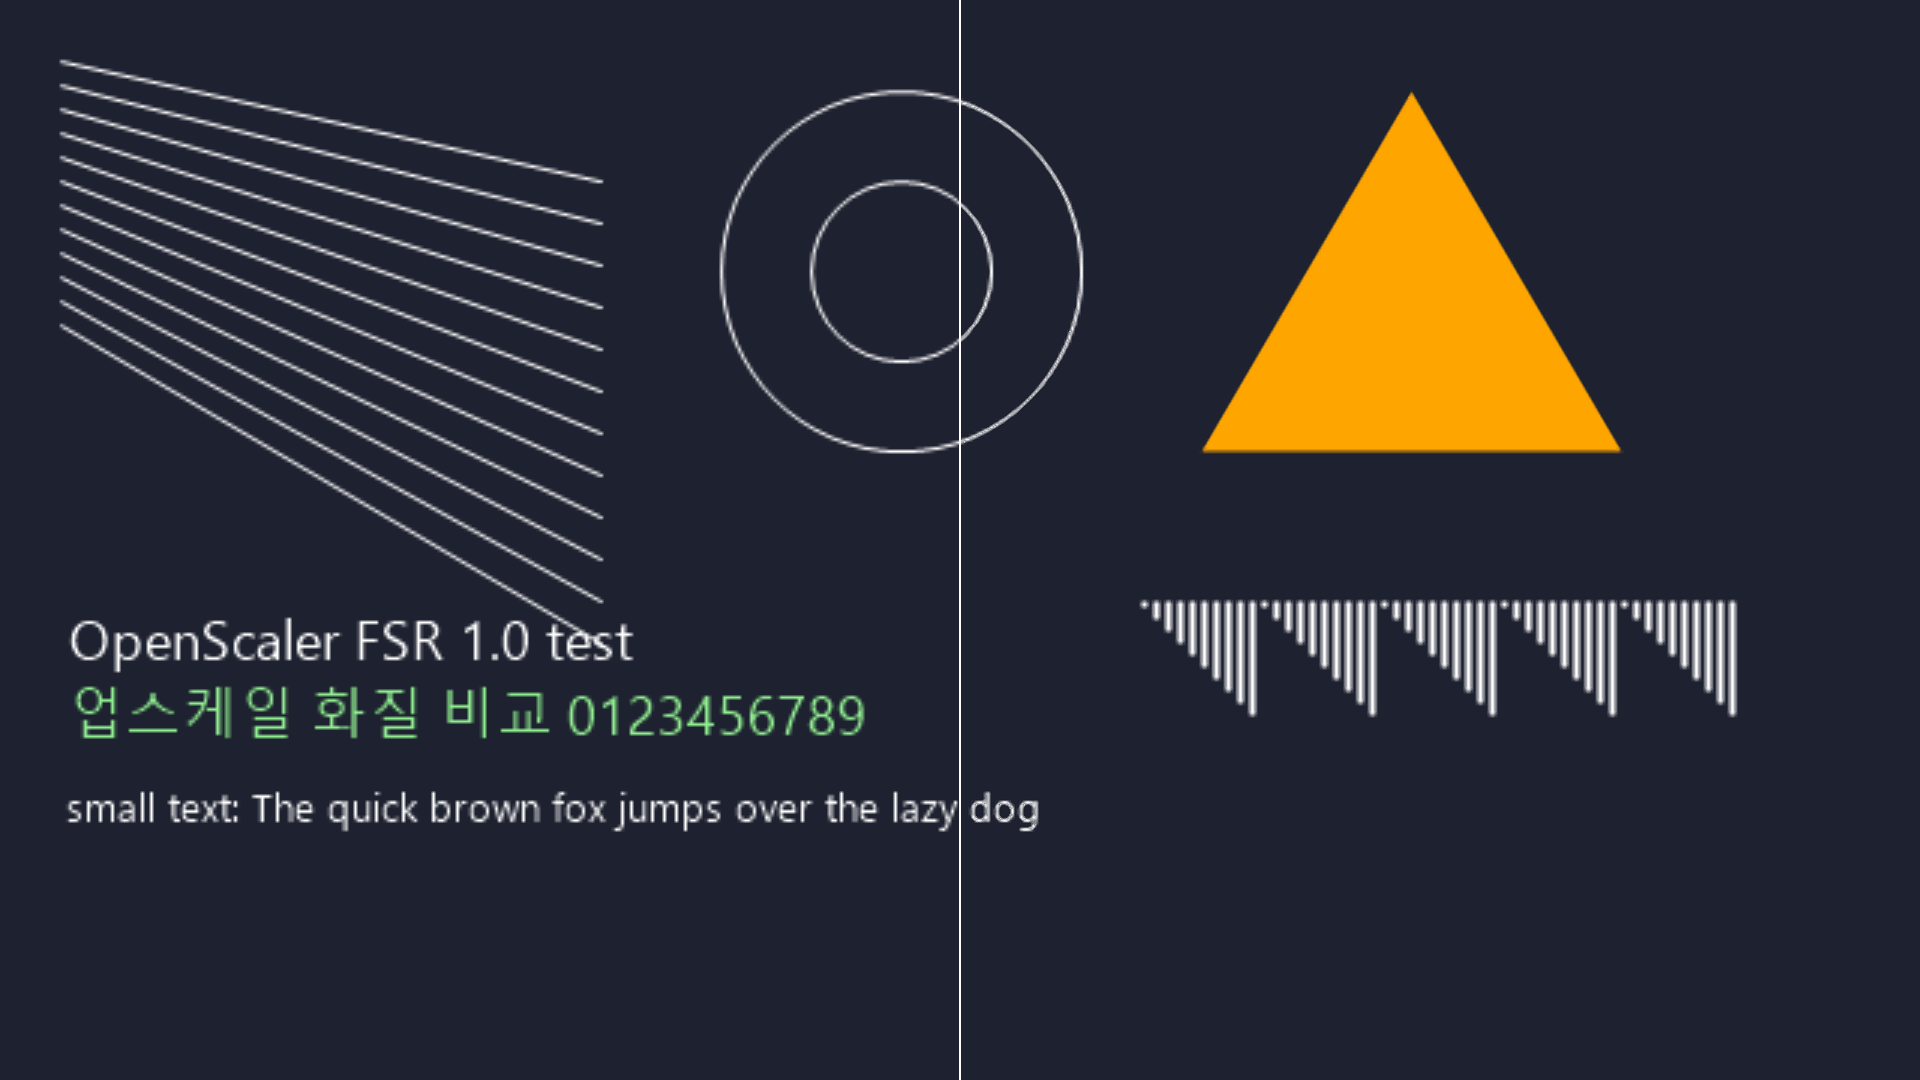
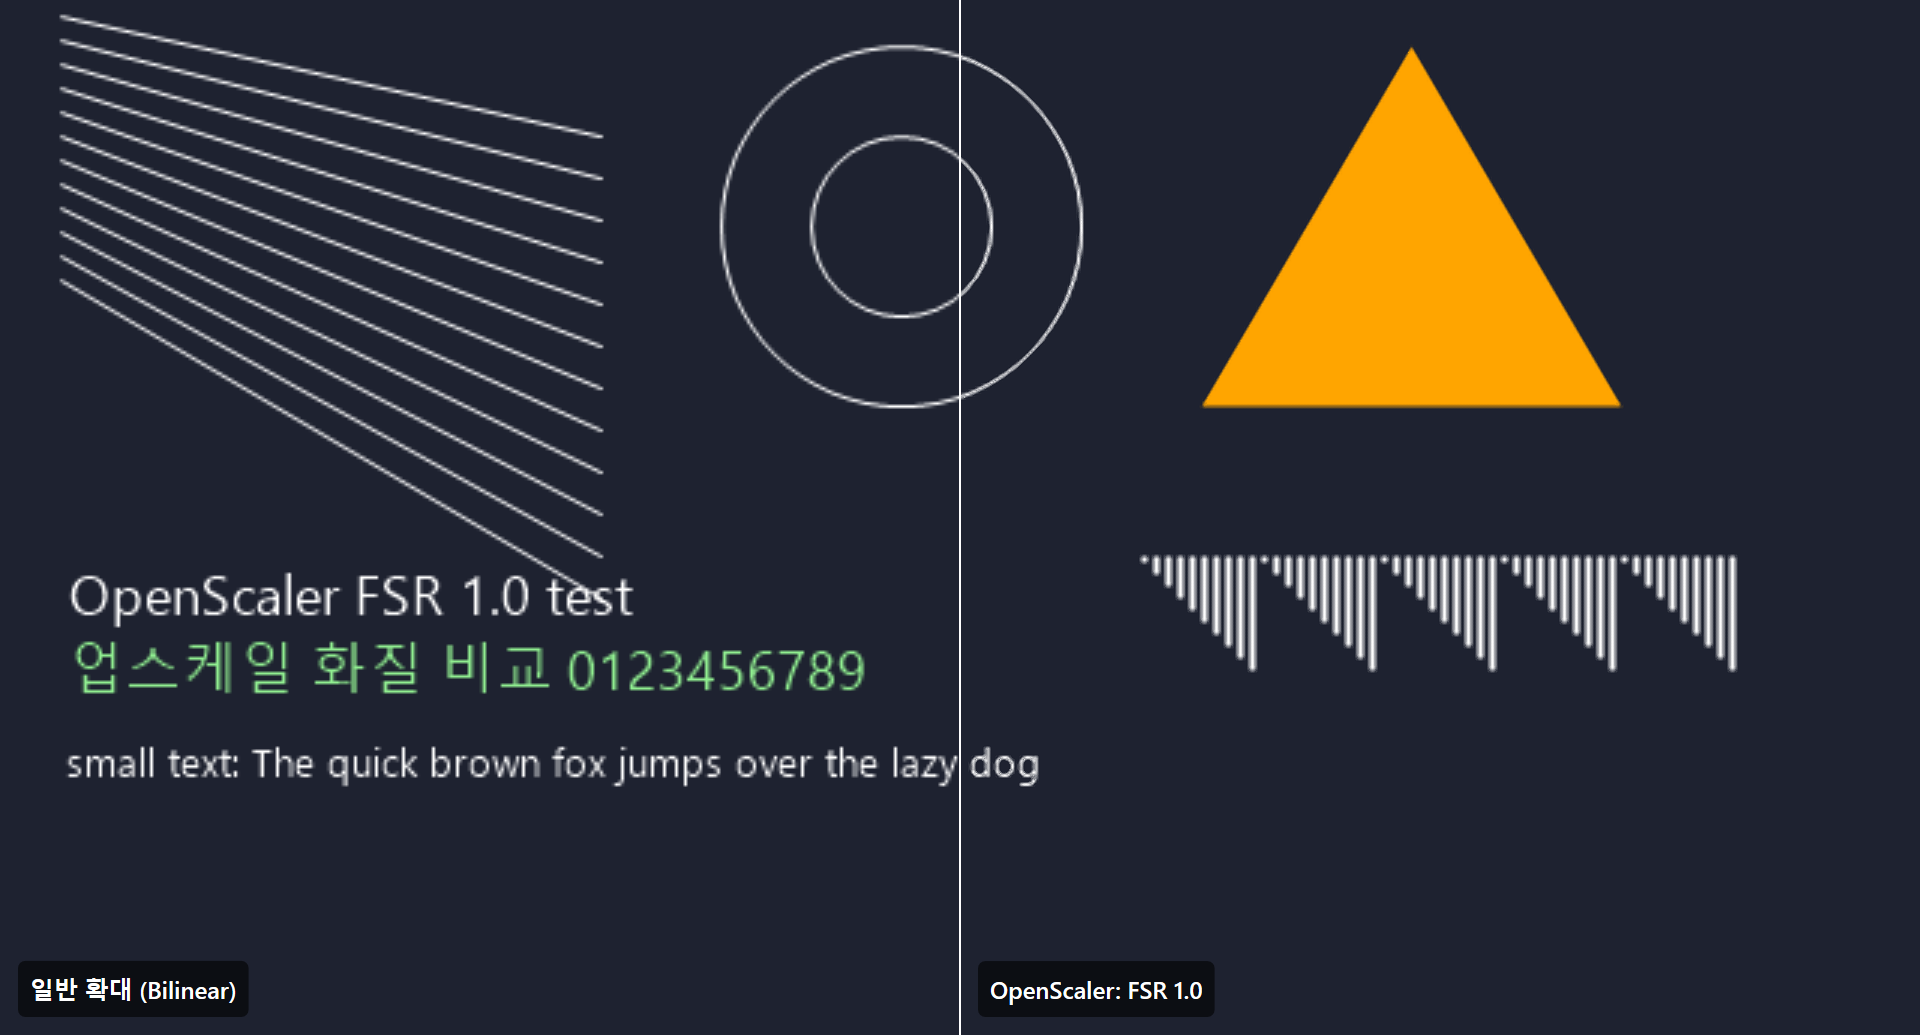
Add on-screen status display
Draw a status box with Direct2D/DirectWrite on the scaled output: mode, sharpness, integer scaling, resolution and FPS. It appears for a few seconds after starting or changing a setting, and Alt+Shift+O keeps it on. Comparison mode now labels both halves. README: feature, hotkey, plan and updated comparison screenshot.

diff --git a/src/main.cpp b/src/main.cpp
@@ -17,6 +17,8 @@
 #include <d3d11.h>
 #include <dxgi1_3.h>
 #include <d3dcompiler.h>
+#include <d2d1_1.h>
+#include <dwrite.h>
 
 #include <winrt/base.h>
 #include <winrt/Windows.Foundation.h>
@@ -55,13 +57,14 @@ using Clock = std::chrono::steady_clock;
 enum Mode { MODE_NEAREST, MODE_BILINEAR, MODE_BICUBIC, MODE_LANCZOS, MODE_FSR, MODE_COUNT };
 static const char* kModeNames[MODE_COUNT] = { "Nearest", "Bilinear", "Bicubic", "Lanczos2", "FSR 1.0" };
 
-enum HotkeyId { HK_TOGGLE = 1, HK_MODE, HK_INTEGER, HK_SHARP_UP, HK_SHARP_DOWN, HK_COMPARE, HK_QUIT };
+enum HotkeyId { HK_TOGGLE = 1, HK_MODE, HK_INTEGER, HK_SHARP_UP, HK_SHARP_DOWN, HK_COMPARE, HK_OSD, HK_QUIT };
 
 struct Settings {
     int mode = MODE_FSR;
     float sharpness = 0.5f;
     bool integerScale = false;
     bool compare = false;  // 화면 분할 비교: 왼쪽은 Bilinear(일반 확대), 오른쪽은 현재 모드
+    bool osdAlways = false; // 화면 위 상태 표시를 항상 켜 둔다 (끄면 설정을 바꿀 때만 잠깐 표시)
 };
 
 // HLSL cbuffer Params와 같은 레이아웃 (16바이트 정렬)
@@ -96,6 +99,12 @@ static com_ptr<ID3D11BlendState> g_blendAlpha;   // 일반 커서 픽셀: 알파
 static com_ptr<ID3D11BlendState> g_blendInvert;  // 흑백 커서의 반전 픽셀: 1 - 배경색
 static com_ptr<ID3D11RasterizerState> g_rsScissor;  // 비교 모드에서 화면 절반만 그릴 때 사용
 static com_ptr<ID3D11ShaderResourceView> g_whiteSrv; // 1x1 흰색 텍스처 (비교 모드 구분선)
+
+// 화면 위 상태 표시(OSD)용 Direct2D / DirectWrite
+static com_ptr<ID2D1Factory1> g_d2dFactory;
+static com_ptr<ID2D1DeviceContext> g_d2dCtx;
+static com_ptr<IDWriteFactory> g_dwFactory;
+static Clock::time_point g_osdUntil;  // 이 시각까지 상태를 표시한다
 
 static bool g_systemCursorHidden = false;
 
@@ -142,9 +151,17 @@ struct ScalingSession {
     bool cursorMapped = false;  // true: 실제 커서가 원본 창 안에 있고 확대 위치에 직접 그리는 중
     std::unordered_map<HCURSOR, CursorImage> cursors;
 
+    // 화면 위 상태 표시
+    com_ptr<ID2D1Bitmap1> d2dTarget;  // 백버퍼를 Direct2D에서 그릴 수 있게 감싼 것
+    com_ptr<IDWriteTextFormat> textFormat;
+    com_ptr<ID2D1SolidColorBrush> textBrush;
+    com_ptr<ID2D1SolidColorBrush> bgBrush;
+
     // 통계
     int capturedFrames = 0;
     int presentedFrames = 0;
+    double captureFps = 0;
+    double outputFps = 0;
     Clock::time_point statTime;
 };
 static ScalingSession* g_scaling = nullptr;
@@ -238,6 +255,15 @@ static void InitD3D()
     rd.ScissorEnable = TRUE;
     check_hresult(g_device->CreateRasterizerState(&rd, g_rsScissor.put()));
     g_whiteSrv = CreatePixelSrv({ 0xFFFFFFFF }, 1, 1);
+
+    // Direct2D를 같은 D3D 디바이스 위에 만들어 백버퍼에 글자를 그린다.
+    check_hresult(D2D1CreateFactory(D2D1_FACTORY_TYPE_SINGLE_THREADED, __uuidof(ID2D1Factory1), nullptr,
+                                    g_d2dFactory.put_void()));
+    com_ptr<ID2D1Device> d2dDevice;
+    check_hresult(g_d2dFactory->CreateDevice(dxgiDevice.get(), d2dDevice.put()));
+    check_hresult(d2dDevice->CreateDeviceContext(D2D1_DEVICE_CONTEXT_OPTIONS_NONE, g_d2dCtx.put()));
+    check_hresult(DWriteCreateFactory(DWRITE_FACTORY_TYPE_SHARED, __uuidof(IDWriteFactory),
+                                      reinterpret_cast<IUnknown**>(g_dwFactory.put())));
 }
 
 // ---------------------------------------------------------------------------
@@ -479,6 +505,7 @@ static void StopScaling()
     ShowSystemCursor(true);
     if (g_scaling->session) g_scaling->session.Close();
     if (g_scaling->framePool) g_scaling->framePool.Close();
+    g_d2dCtx->SetTarget(nullptr);
     g_ctx->ClearState();
     g_ctx->Flush();
     if (g_scaling->frameWaitable) CloseHandle(g_scaling->frameWaitable);
@@ -551,6 +578,17 @@ static void StartScaling(HWND target)
     com_ptr<ID3D11Texture2D> backBuffer;
     check_hresult(s->swapChain->GetBuffer(0, IID_PPV_ARGS(backBuffer.put())));
     check_hresult(g_device->CreateRenderTargetView(backBuffer.get(), nullptr, s->backBufferRtv.put()));
+
+    // 상태 표시: 글자 크기는 출력 높이에 비례 (1080p에서 24px)
+    D2D1_BITMAP_PROPERTIES1 bp = D2D1::BitmapProperties1(
+        D2D1_BITMAP_OPTIONS_TARGET | D2D1_BITMAP_OPTIONS_CANNOT_DRAW,
+        D2D1::PixelFormat(DXGI_FORMAT_B8G8R8A8_UNORM, D2D1_ALPHA_MODE_IGNORE));
+    check_hresult(g_d2dCtx->CreateBitmapFromDxgiSurface(backBuffer.as<IDXGISurface>().get(), &bp, s->d2dTarget.put()));
+    check_hresult(g_dwFactory->CreateTextFormat(L"Segoe UI", nullptr, DWRITE_FONT_WEIGHT_SEMI_BOLD, DWRITE_FONT_STYLE_NORMAL,
+                                                DWRITE_FONT_STRETCH_NORMAL, s->outH / 45.0f, L"ko-kr", s->textFormat.put()));
+    check_hresult(g_d2dCtx->CreateSolidColorBrush(D2D1::ColorF(1.0f, 1.0f, 1.0f, 1.0f), s->textBrush.put()));
+    check_hresult(g_d2dCtx->CreateSolidColorBrush(D2D1::ColorF(0.0f, 0.0f, 0.0f, 0.6f), s->bgBrush.put()));
+    g_osdUntil = Clock::now() + std::chrono::milliseconds(3000);
 
     s->session.StartCapture();
     s->statTime = Clock::now();
@@ -684,6 +722,56 @@ static void DrawCursor(ScalingSession* s)
     g_ctx->OMSetBlendState(nullptr, nullptr, 0xFFFFFFFF);
 }
 
+// 반투명 검은 상자 위에 글자를 그린다. alignBottom이면 y는 상자의 아래쪽 끝이다.
+static void DrawLabel(ScalingSession* s, const wchar_t* text, float x, float y, bool alignBottom)
+{
+    com_ptr<IDWriteTextLayout> layout;
+    check_hresult(g_dwFactory->CreateTextLayout(text, (UINT32)wcslen(text), s->textFormat.get(), 4000.0f, 4000.0f,
+                                                layout.put()));
+    DWRITE_TEXT_METRICS m;
+    check_hresult(layout->GetMetrics(&m));
+    float pad = s->textFormat->GetFontSize() * 0.5f;
+    float h = m.height + pad * 2;
+    if (alignBottom) y -= h;
+    D2D1_ROUNDED_RECT bg = { { x, y, x + m.width + pad * 2, y + h }, pad * 0.6f, pad * 0.6f };
+    g_d2dCtx->FillRoundedRectangle(bg, s->bgBrush.get());
+    g_d2dCtx->DrawTextLayout({ x + pad, y + pad }, layout.get(), s->textBrush.get());
+}
+
+// 설정을 바꾸면 잠깐(또는 항상) 현재 상태를 보여 주고, 비교 모드에서는 양쪽에 이름표를 붙인다.
+static void DrawOsd(ScalingSession* s)
+{
+    bool showStatus = g_settings.osdAlways || Clock::now() < g_osdUntil;
+    if (!showStatus && !g_settings.compare) return;
+
+    float left = (float)(s->dstScreen.left - s->monitor.left);
+    float top = (float)(s->dstScreen.top - s->monitor.top);
+    float right = (float)(s->dstScreen.right - s->monitor.left);
+    float bottom = (float)(s->dstScreen.bottom - s->monitor.top);
+    float margin = s->textFormat->GetFontSize() * 0.75f;
+
+    g_d2dCtx->SetTarget(s->d2dTarget.get());
+    g_d2dCtx->BeginDraw();
+
+    if (showStatus) {
+        wchar_t text[256];
+        swprintf_s(text, L"%hs  ·  샤픈 %.1f  ·  정수배 %ls\n%u×%u → %u×%u  ·  출력 %.0f fps  ·  캡처 %.0f fps",
+                   kModeNames[g_settings.mode], g_settings.sharpness, g_settings.integerScale ? L"ON" : L"OFF",
+                   s->srcW, s->srcH, s->midW, s->midH, s->outputFps, s->captureFps);
+        DrawLabel(s, text, left + margin, top + margin, false);
+    }
+
+    if (g_settings.compare) {
+        wchar_t text[64];
+        swprintf_s(text, L"OpenScaler: %hs", kModeNames[g_settings.mode]);
+        DrawLabel(s, L"일반 확대 (Bilinear)", left + margin, bottom - margin, true);
+        DrawLabel(s, text, (left + right) / 2 + margin, bottom - margin, true);
+    }
+
+    g_d2dCtx->EndDraw();
+    g_d2dCtx->SetTarget(nullptr);
+}
+
 static void RenderFrame()
 {
     auto s = g_scaling;
@@ -723,6 +811,8 @@ static void RenderFrame()
     UpdateLayout(s);
     UpdateCursor(s);
 
+    // 지난 프레임의 Direct2D 그리기가 남긴 파이프라인 상태를 지우고 시작한다.
+    g_ctx->ClearState();
     float clear[4] = { 0, 0, 0, 1 };
     g_ctx->ClearRenderTargetView(s->backBufferRtv.get(), clear);
 
@@ -782,6 +872,9 @@ static void RenderFrame()
 
         // Pass 3: 커서
         DrawCursor(s);
+
+        // Pass 4: 화면 위 상태 표시
+        DrawOsd(s);
     }
 
     // 3. 수직동기에 맞춰 출력
@@ -807,6 +900,8 @@ static void PrintStatus()
            g_scaling->cursorMapped ? "변환" : "일반",
            g_scaling->capturedFrames / sec, g_scaling->presentedFrames / sec);
     fflush(stdout);
+    g_scaling->captureFps = g_scaling->capturedFrames / sec;
+    g_scaling->outputFps = g_scaling->presentedFrames / sec;
     g_scaling->capturedFrames = 0;
     g_scaling->presentedFrames = 0;
     g_scaling->statTime = now;
@@ -828,6 +923,9 @@ static bool HandleHotkey(int id)
     case HK_COMPARE:
         g_settings.compare = !g_settings.compare;
         break;
+    case HK_OSD:
+        g_settings.osdAlways = !g_settings.osdAlways;
+        break;
     case HK_SHARP_UP:
         g_settings.sharpness = std::min(1.0f, g_settings.sharpness + 0.1f);
         break;
@@ -837,6 +935,7 @@ static bool HandleHotkey(int id)
     case HK_QUIT:
         return false;
     }
+    g_osdUntil = Clock::now() + std::chrono::milliseconds(2500);  // 바뀐 설정을 화면에 잠깐 보여 준다
     return true;
 }
 
@@ -847,7 +946,7 @@ static void RegisterHotkeys()
         { HK_TOGGLE, 'S', "Alt+Shift+S" },        { HK_MODE, 'M', "Alt+Shift+M" },
         { HK_INTEGER, 'I', "Alt+Shift+I" },       { HK_SHARP_UP, VK_UP, "Alt+Shift+Up" },
         { HK_SHARP_DOWN, VK_DOWN, "Alt+Shift+Down" }, { HK_COMPARE, 'C', "Alt+Shift+C" },
-        { HK_QUIT, 'Q', "Alt+Shift+Q" },
+        { HK_OSD, 'O', "Alt+Shift+O" },           { HK_QUIT, 'Q', "Alt+Shift+Q" },
     };
     for (auto& k : keys) {
         if (!RegisterHotKey(nullptr, k.id, mods, k.vk))
@@ -885,6 +984,7 @@ static void PrintHelp()
            "  Alt+Shift+M     업스케일 모드 변경 (Nearest/Bilinear/Bicubic/Lanczos2/FSR 1.0)\n"
            "  Alt+Shift+I     정수배 스케일링 켜기/끄기\n"
            "  Alt+Shift+C     비교 모드 (왼쪽: 일반 확대, 오른쪽: 현재 모드)\n"
+           "  Alt+Shift+O     화면 위 상태 표시 항상 켜기/끄기\n"
            "  Alt+Shift+Up    샤프닝 강하게\n"
            "  Alt+Shift+Down  샤프닝 약하게\n"
            "  Alt+Shift+Q     프로그램 종료\n"
